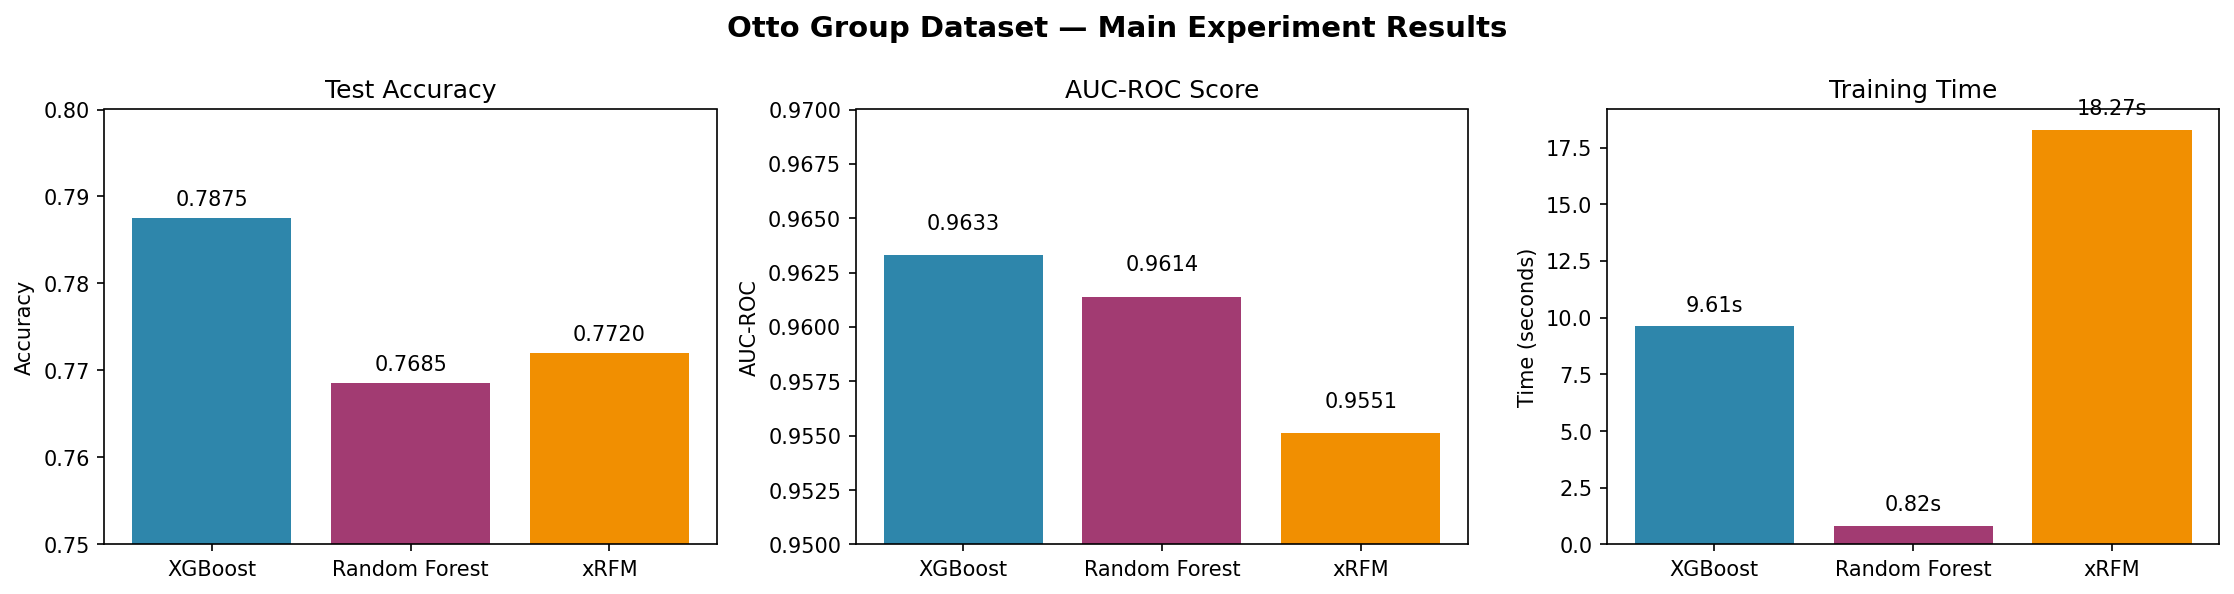
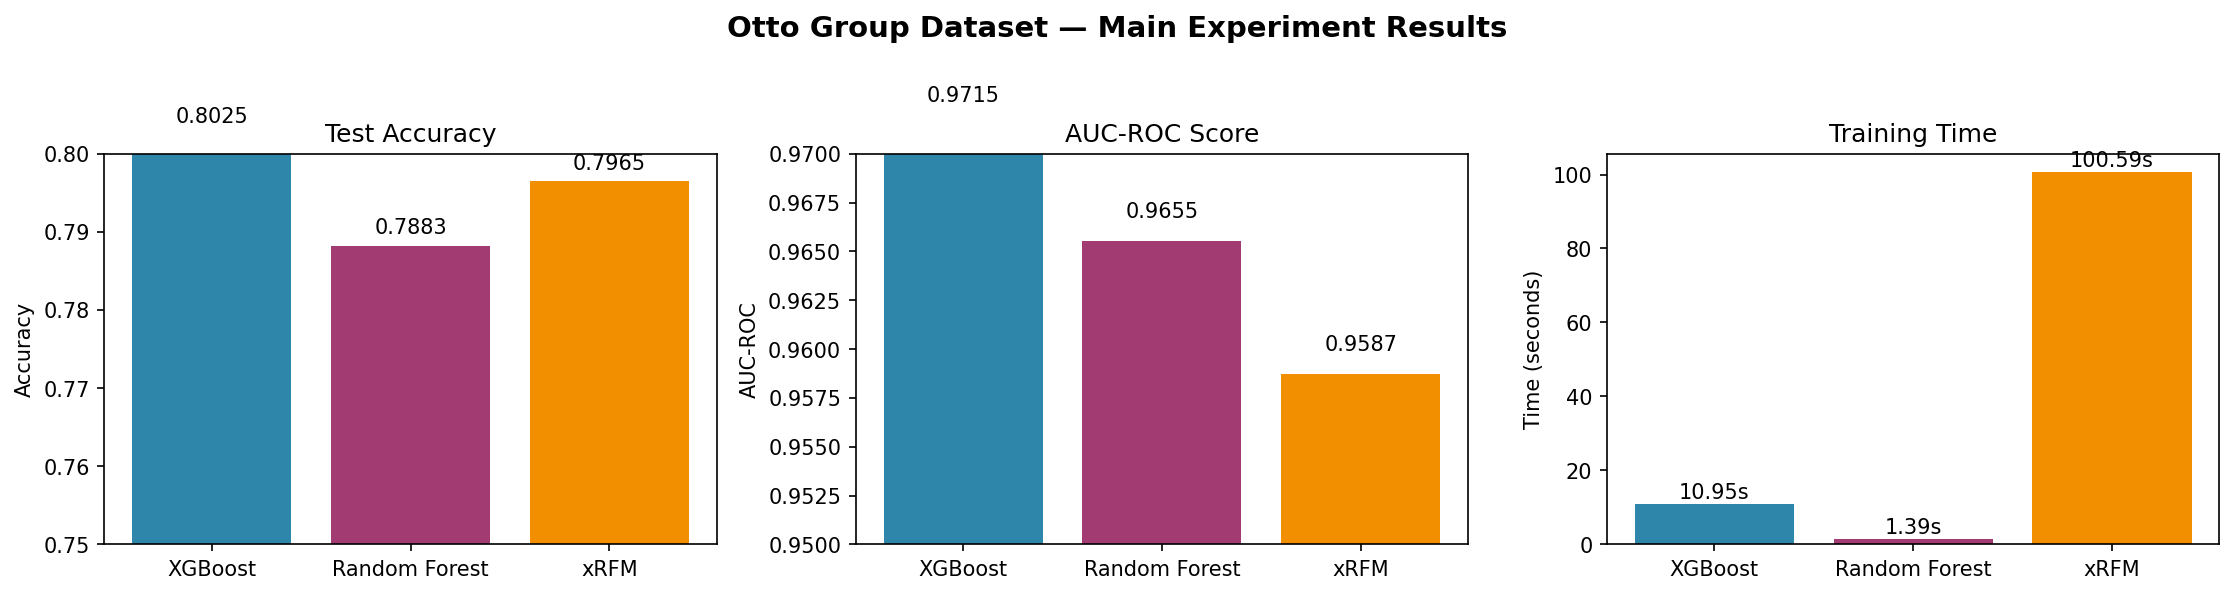
update: rerun main experiment with 20K samples, restructure Results section
- Rerun main experiment on 20K Otto Group data:
  XGBoost: 0.8025, RF: 0.7883, xRFM: 0.7965
- Update README Results section with 3 subsections:
  1. Main Experiment, 2. Scaling Experiment, 3. Feature Importance
- Update plot and JSON results

diff --git a/README.md b/README.md
@@ -111,17 +111,39 @@ python analyze_features.py mi         # Mutual Information
 python analyze_features.py plot       # Plot from existing results
 ```
 
-## Model Comparison (Otto Group Dataset)
+## Results
+
+实验结果分为三个部分：主实验、Scaling 实验、特征分析。
+
+### 1. Main Experiment (Otto Group, 20K samples)
 
 | Model | Accuracy | AUC-ROC | Training Time | Key Hyperparameters |
 |---|---|---|---|---|
-| **XGBoost** | **0.7875** | **0.9633** | 9.61s | `lr=0.1, max_depth=9, n_estimators=500` |
-| **xRFM** | 0.7720 | 0.9551 | 18.27s | Calls xRFM library (PyTorch backend), requires one-hot encoding |
-| Random Forest | 0.7685 | 0.9614 | 0.82s | `max_depth=None, min_samples_leaf=1, n_estimators=100` |
+| **XGBoost** | **0.8025** | **0.9715** | 10.95s | `lr=0.1, max_depth=9, n_estimators=500` |
+| **xRFM** | 0.7965 | 0.9587 | 100.59s | Calls xRFM library (PyTorch backend), requires one-hot encoding |
+| Random Forest | 0.7883 | 0.9655 | 1.39s | `max_depth=None, min_samples_leaf=1, n_estimators=100` |
 
-> **Conclusion**: XGBoost achieves the best accuracy and AUC-ROC; Random Forest is the fastest but slightly less accurate; xRFM, as a new gradient-covariance method, falls in between.
+> **Conclusion**: XGBoost achieves the best accuracy and AUC-ROC; xRFM is competitive on accuracy but training time is significantly higher (~10× XGBoost); Random Forest is the fastest but slightly less accurate.
 
-## Scaling Behavior
+**可视化**: `results/main_experiment_comparison.png`
+
+### 2. Scaling Experiment
+
+> Based on the **Otto Group** dataset (9-class classification, 93 features, 20K samples). We subsample at 1K / 2K / 5K / 10K / 20K to observe scaling trends.
+
+| Sample Size | XGBoost Accuracy | RF Accuracy | xRFM Accuracy |
+|---|---|---|---|
+| 1,000 | 0.665 | 0.670 | **0.705** |
+| 2,000 | 0.705 | 0.718 | **0.713** |
+| 5,000 | 0.751 | 0.736 | 0.740 |
+| 10,000 | **0.788** | 0.769 | 0.772 |
+| 20,000 | **0.799** | 0.773 | 0.786 |
+
+> **Observation**: XGBoost dominates at large data sizes; xRFM performs better on small samples but training time increases sharply (182s at 20k samples).
+
+**结果文件**: `results/scaling/`
+
+### 3. Feature Importance Analysis
 
 > Based on the **Otto Group** dataset (9-class classification, 93 features, 61K samples). We subsample at 1K / 2K / 5K / 10K / 20K to observe scaling trends.
 
